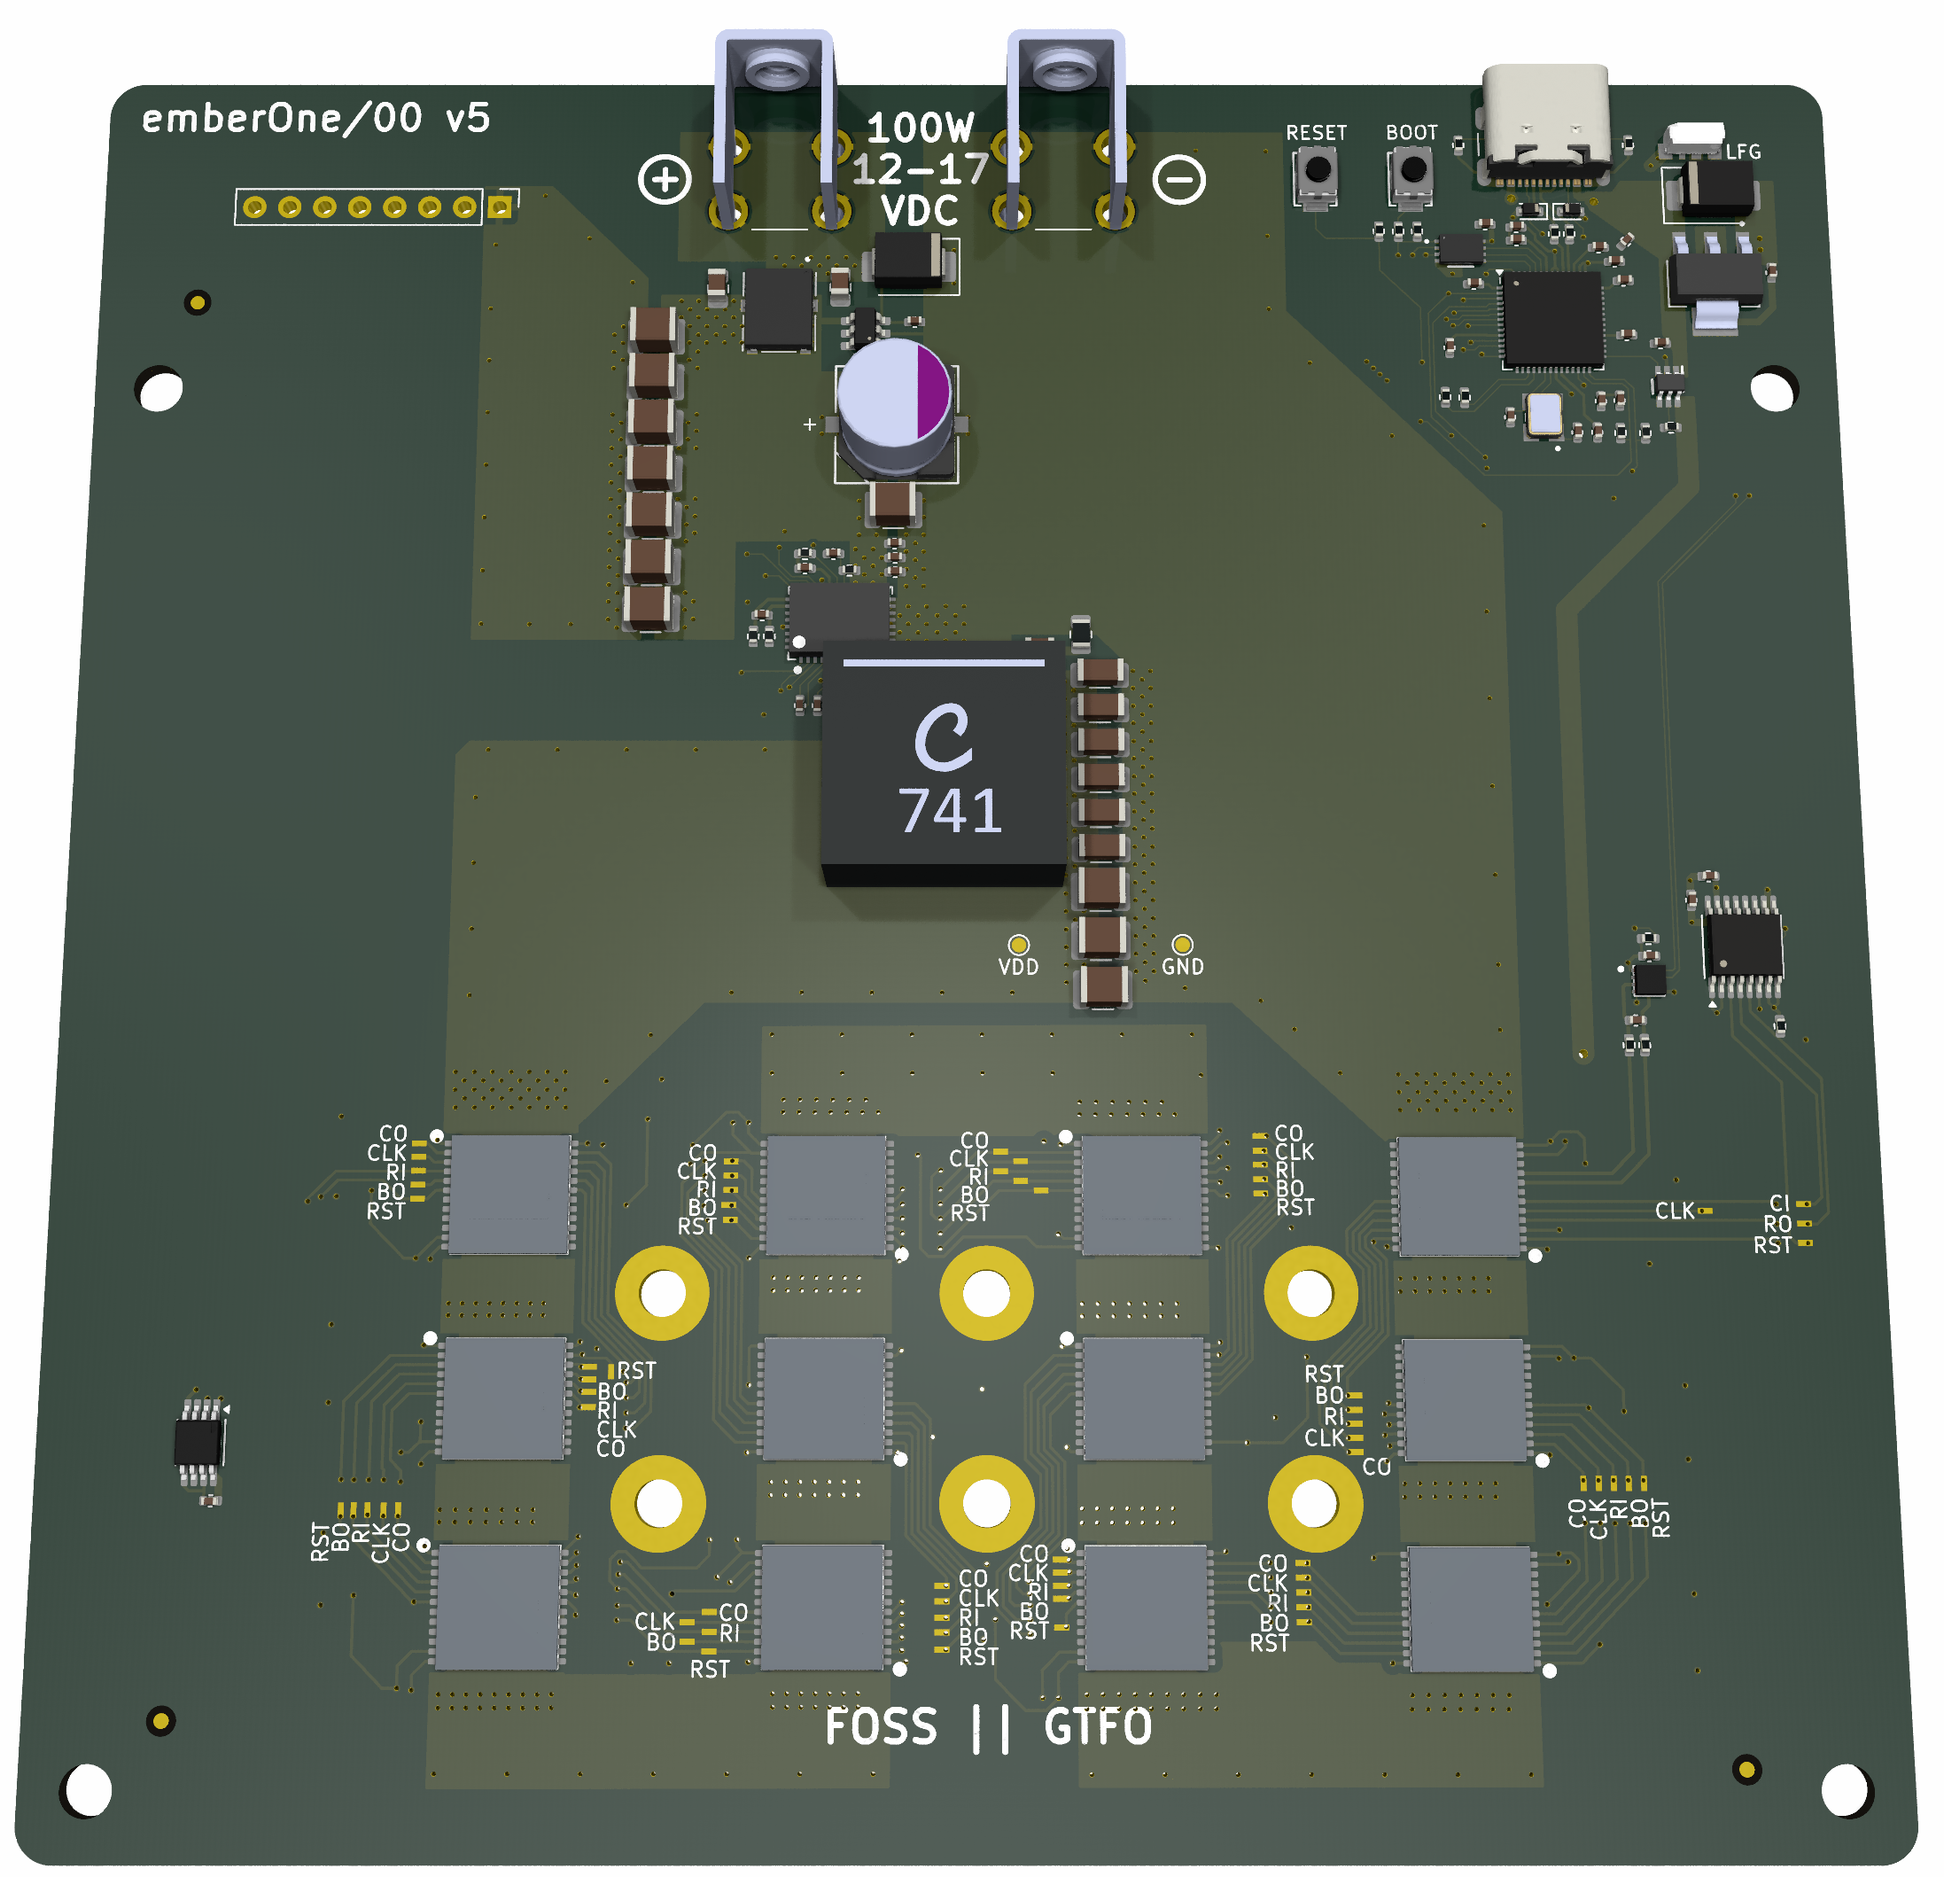
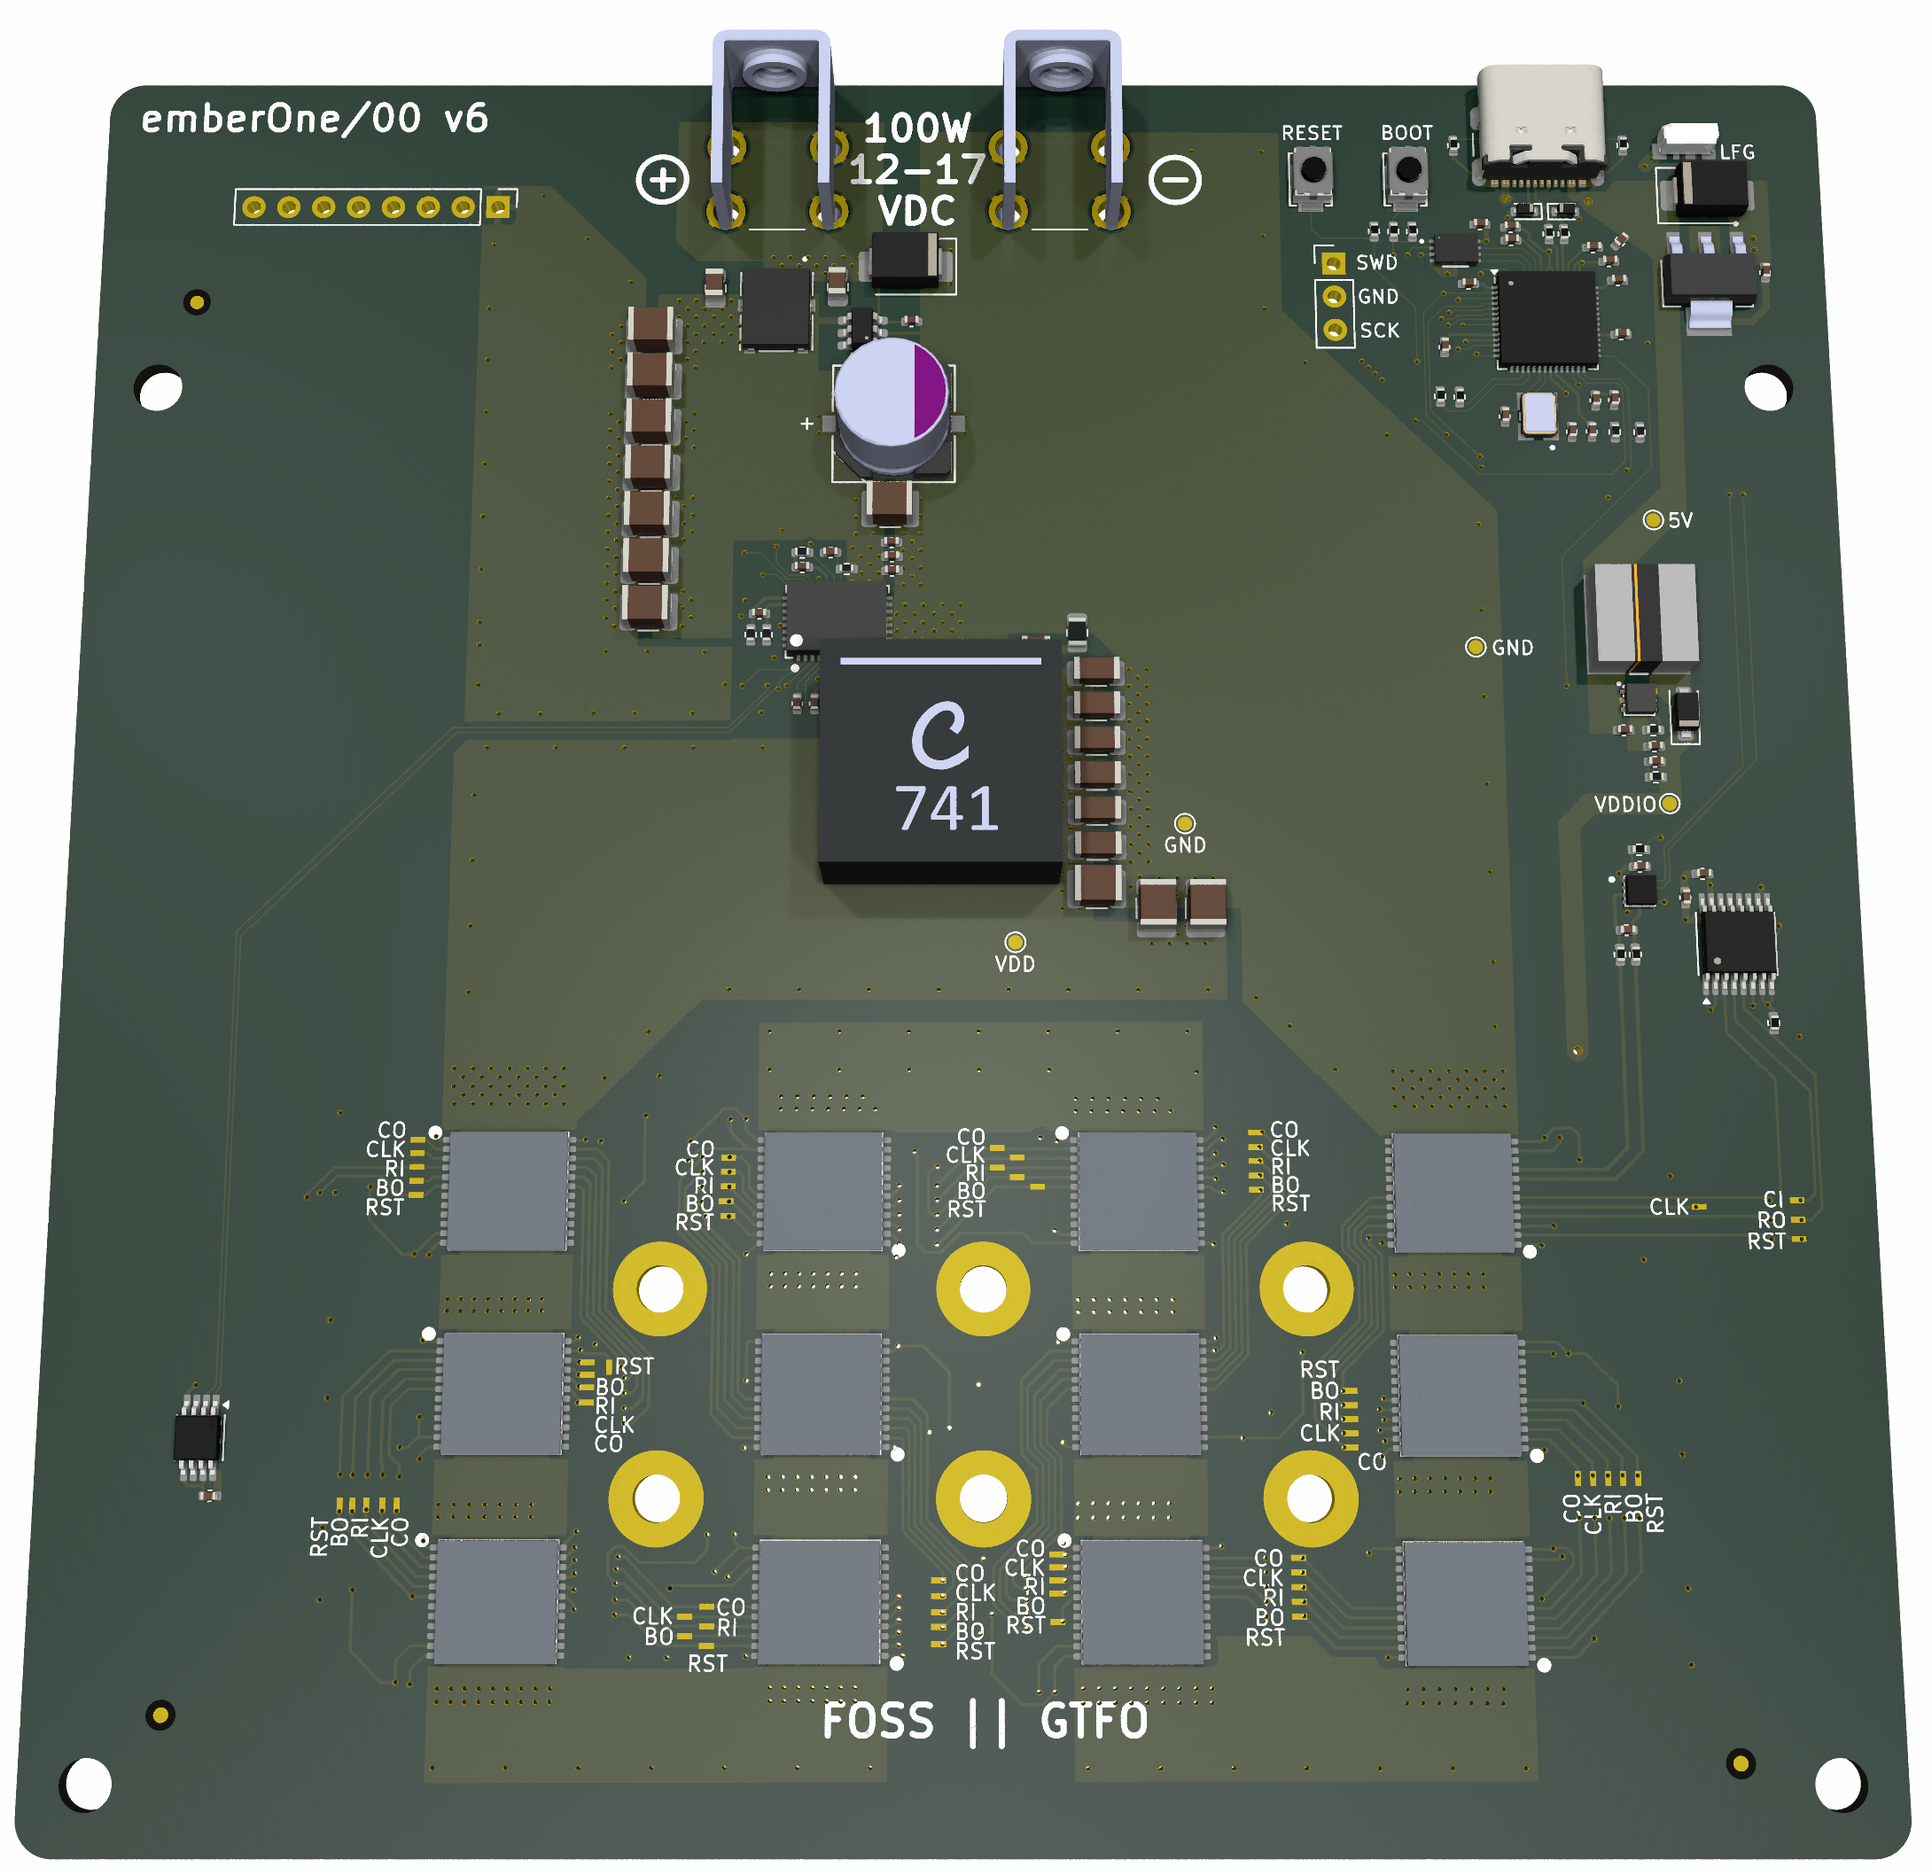
updated render and readme

diff --git a/README.md b/README.md
@@ -6,8 +6,7 @@ A 100W open source ASIC Bitcoin mining hashboard.
 
 - Wide 12-17VDC input voltage.
 - Separate, USB connected control board required.
-	- Firmware support coming soon in [Mujina Firmware](https://mujina.org)
-	- Initial testing emberOne firmware support (hacked into) [PiAxe/Pyminer fork](https://github.com/skot/emberone-miner/tree/emberone-BM1362-support)
+	- Firmware support in [Mujina Firmware](https://github.com/256foundation/mujina/)
 - Onboard RP2040 usbserial converter [firmware](https://github.com/256-Foundation/emberone-usbserial-fw)
 
 The emberOne/00 is designed with twelve BM1362AC from the Bitmain Antminer S19j Pro (see notes below). All of the chips are powered in series. It should reach about 3.5 TH/s
@@ -20,3 +19,8 @@ The emberOne/00 uses the Bitmain BM1362 chips from the S19j Pro. Make sure to us
 
 ## Hacking
 emberOne design files are built using the incredible, FOSS PCB CAD software [KiCad](https://kicad.org). Please fork, hack and release!
+
+## License
+The emberOne is open source. Licensed under the [CERN-OHL-S-2.0](LICENSE). You are free to use, modify, understand and distribute this project. You must release the source of any changes under the same license.
+
+© [256 Foundation](https://256foundation.org)
